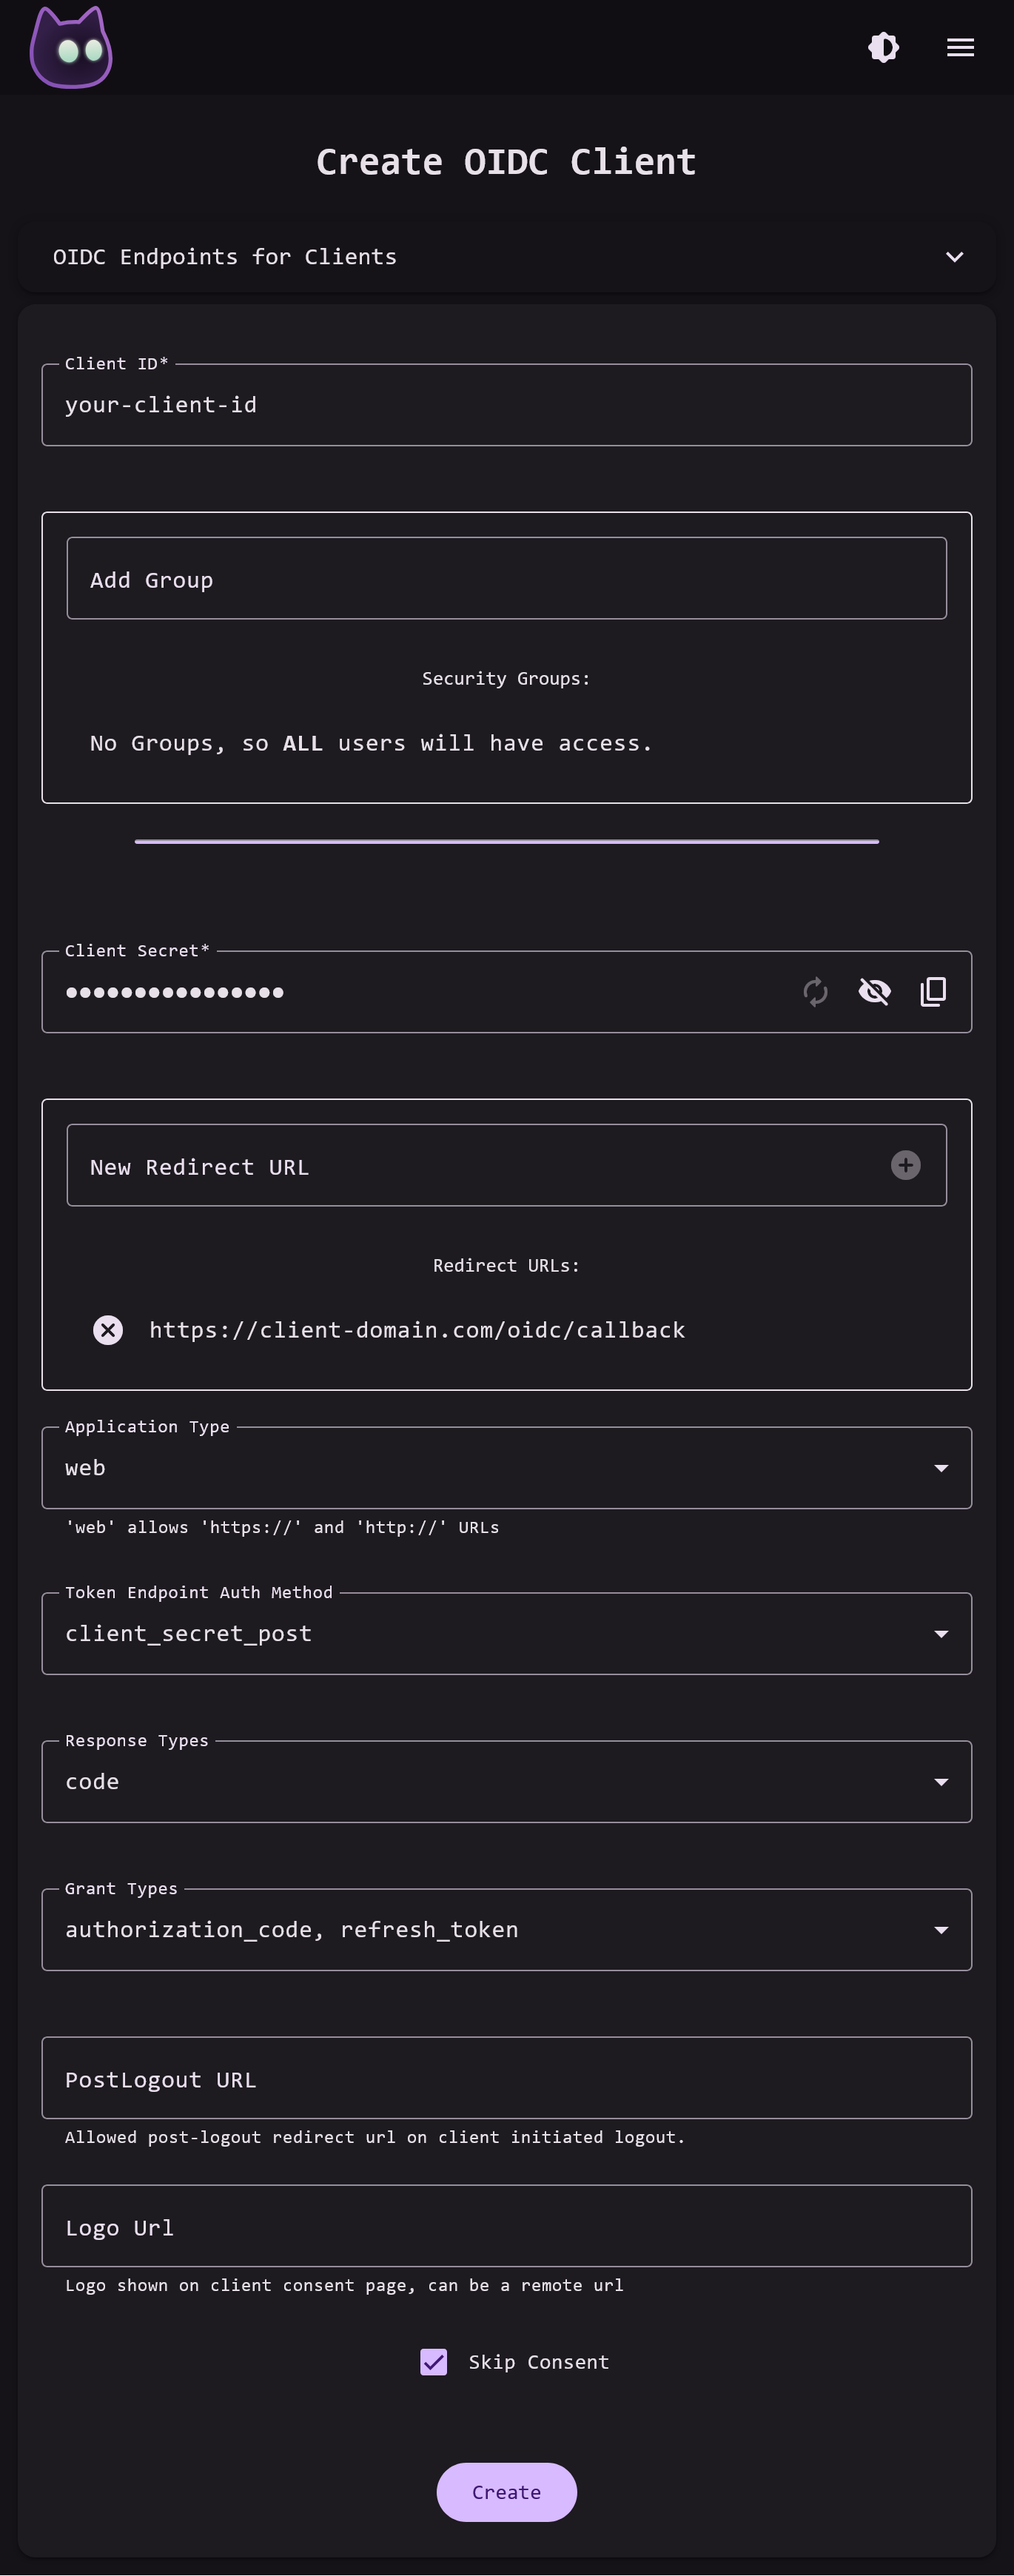
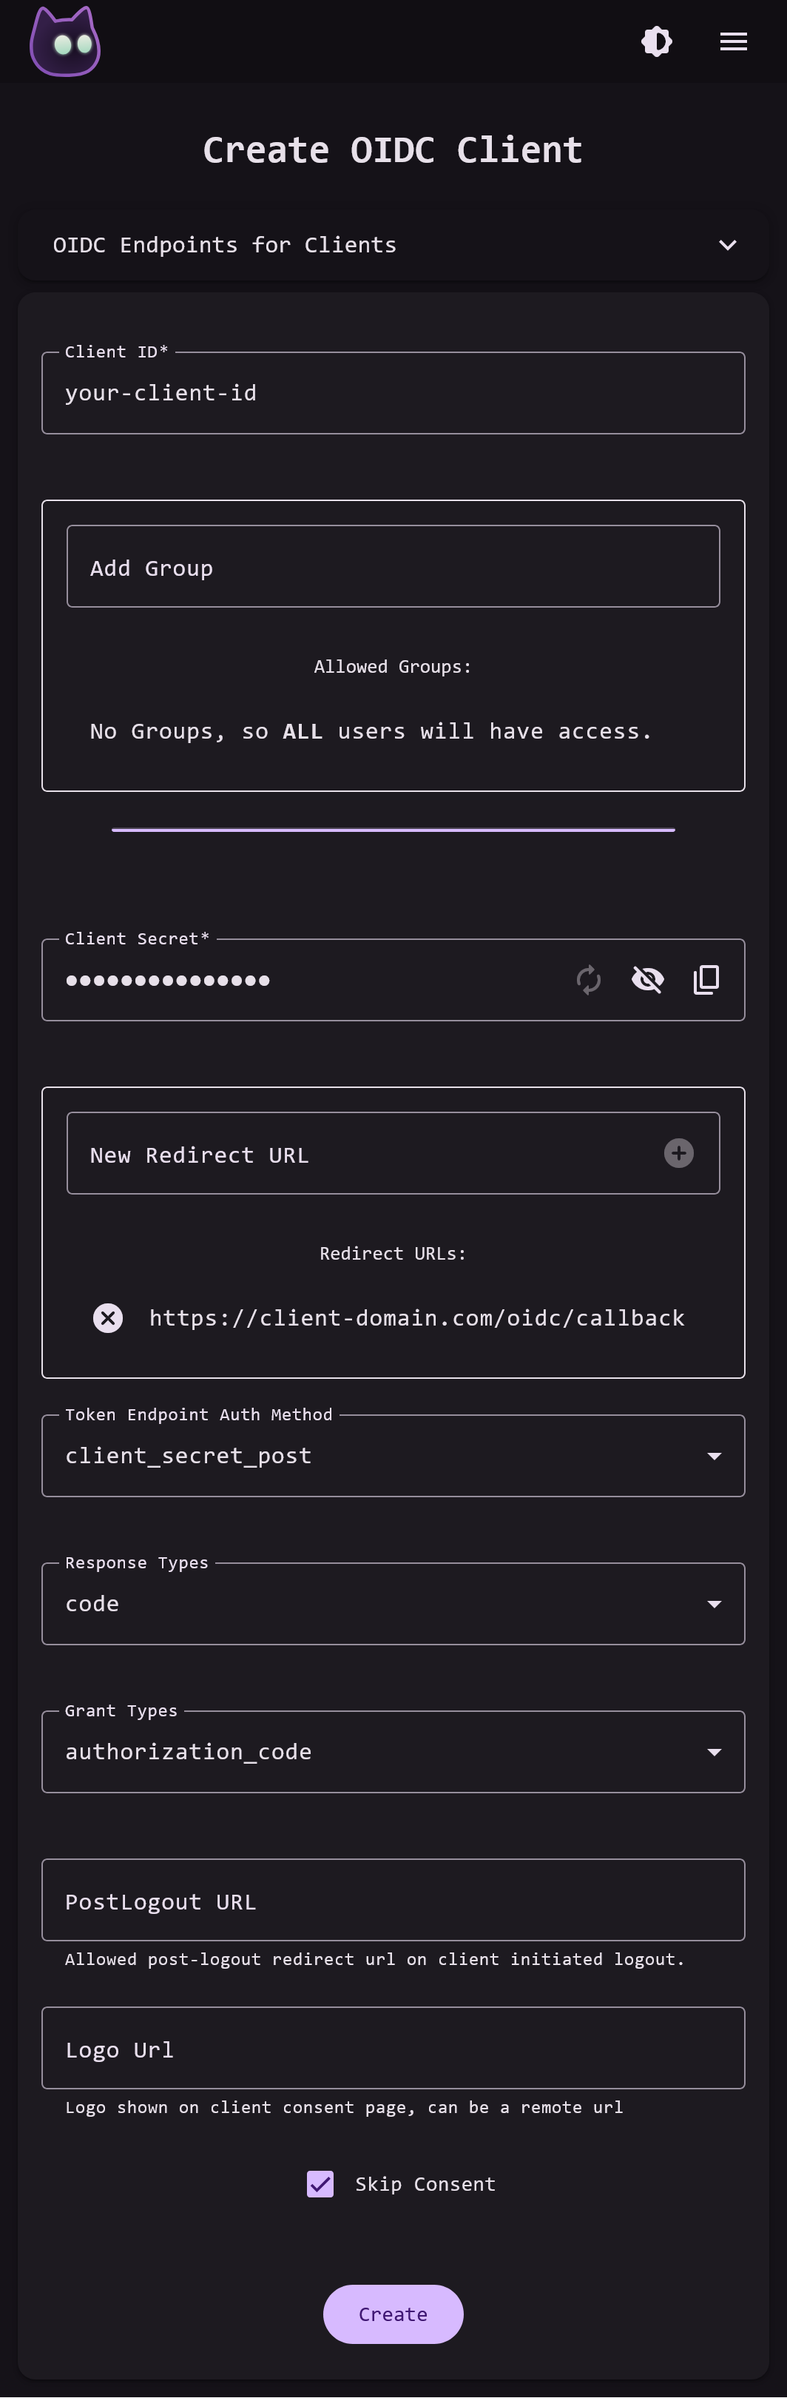
Determine the correct OIDC Application Type automatically. Prevent adding insecure and custom protocol URLs to the Redirect URLs list at the same time.

diff --git a/frontend/src/app/pages/admin/clients/upsert-client/upsert-client.component.ts b/frontend/src/app/pages/admin/clients/upsert-client/upsert-client.component.ts
@@ -43,39 +43,11 @@ export class UpsertClientComponent implements OnInit {
     'none',
   ]
 
-  public applicationTypes: ClientUpsert['application_type'][] = [
-    'web',
-    'native',
-  ]
-
   public uniqueResponseTypes = UNIQUE_RESPONSE_TYPES
 
   public grantTypes = GRANT_TYPES
 
   public client_id: string | null = null
-
-  public groups: string[] = []
-  public unselectedGroups: string[] = []
-  public selectableGroups: string[] = []
-  groupSelect = new FormControl<string>({
-    value: '',
-    disabled: false,
-  }, [])
-
-  redirectUrlControl = new FormControl<string>({
-    value: '',
-    disabled: false,
-  }, [isValidURLControl])
-
-  responseTypeControl = new FormControl<itemIn<typeof UNIQUE_RESPONSE_TYPES>[]>(['code'], [(c) => {
-    // eslint-disable-next-line @typescript-eslint/no-unsafe-member-access
-    if (c.value?.length === 1 && c.value[0] === 'token') {
-      return { invalid: 'This is an invalid Response Type selection.' }
-    }
-    return null
-  }])
-
-  postLogoutUrlControl = new FormControl<string | null>(null, [isValidURLControl])
 
   form = new FormGroup<TypedControls<ClientUpsert>>({
     client_id: new FormControl<string | null>(null, [Validators.required]),
@@ -90,7 +62,6 @@ export class UpsertClientComponent implements OnInit {
       return null
     }]),
     grant_types: new FormControl<itemIn<typeof GRANT_TYPES>[]>(['authorization_code', 'refresh_token']),
-    application_type: new FormControl<ClientUpsert['application_type']>('web'),
     post_logout_redirect_uris: new FormControl<ClientUpsert['post_logout_redirect_uris']>([], [(c) => {
       if ((c.value as string[]).some(v => typeof v === 'string' && v && !isValidURL(v))) {
         return {
@@ -103,6 +74,48 @@ export class UpsertClientComponent implements OnInit {
     logo_uri: new FormControl<string | null>(null, [isValidWebURLControl]),
     groups: new FormControl<ClientUpsert['groups']>([]),
   })
+
+  public groups: string[] = []
+  public unselectedGroups: string[] = []
+  public selectableGroups: string[] = []
+  groupSelect = new FormControl<string>({
+    value: '',
+    disabled: false,
+  }, [])
+
+  redirectUrlControl = new FormControl<string>({
+    value: '',
+    disabled: false,
+  }, [isValidURLControl, (c) => {
+    // eslint-disable-next-line @typescript-eslint/no-unsafe-assignment
+    const value = c.value
+    const existing = this.form.controls.redirect_uris.value
+    if (typeof value !== 'string' || !isValidURL(value) || !existing?.length) {
+      return null
+    }
+    const all = existing.concat([value])
+    let hasHttpProtocol = false
+    let hasCustomProtocol = false
+    for (const uri of all) {
+      const protocol = URL.parse(uri)?.protocol
+      hasHttpProtocol ||= protocol === 'http:'
+      hasCustomProtocol ||= (protocol !== 'http:' && protocol !== 'https:')
+    }
+    if (hasCustomProtocol && hasHttpProtocol) {
+      return { invalid: 'You cannot mix insecure and custom protocol URLs in the Redirect URLs list.' }
+    }
+    return null
+  }])
+
+  responseTypeControl = new FormControl<itemIn<typeof UNIQUE_RESPONSE_TYPES>[]>(['code'], [(c) => {
+    // eslint-disable-next-line @typescript-eslint/no-unsafe-member-access
+    if (c.value?.length === 1 && c.value[0] === 'token') {
+      return { invalid: 'This is an invalid Response Type selection.' }
+    }
+    return null
+  }])
+
+  postLogoutUrlControl = new FormControl<string | null>(null, [isValidURLControl])
 
   pwdShow = false
 
@@ -131,7 +144,6 @@ export class UpsertClientComponent implements OnInit {
             token_endpoint_auth_method: client.token_endpoint_auth_method ?? 'client_secret_post',
             response_types: client.response_types ?? ['code'],
             grant_types: client.grant_types ?? ['authorization_code', 'refresh_token'],
-            application_type: client.application_type ?? 'web',
             post_logout_redirect_uris: client.post_logout_redirect_uris ?? [],
             skip_consent: client['skip_consent'] ?? true,
             logo_uri: client.logo_uri,
@@ -304,5 +316,7 @@ export class UpsertClientComponent implements OnInit {
   removeRedirectUrl(value: string) {
     this.form.controls.redirect_uris.setValue((this.form.controls.redirect_uris.value ?? []).filter(r => r !== value))
     this.form.controls.redirect_uris.markAsDirty()
+    this.form.updateValueAndValidity()
+    this.redirectUrlControl.updateValueAndValidity()
   }
 }

diff --git a/server/routes/admin.ts b/server/routes/admin.ts
@@ -37,6 +37,7 @@ import appConfig from '../util/config'
 import type { EmailsResponse } from '@shared/api-response/admin/EmailsResponse'
 import DOMPurify from 'isomorphic-dompurify'
 import type { OIDCPayload } from '@shared/db/OIDCPayload'
+import type { ClientResponse } from '@shared/api-response/ClientResponse'
 
 const clientMetadataValidator: TypedSchema<ClientUpsert> = {
   client_id: {
@@ -80,10 +81,6 @@ const clientMetadataValidator: TypedSchema<ClientUpsert> = {
     },
   },
   token_endpoint_auth_method: {
-    optional: true,
-    ...stringValidation,
-  },
-  application_type: {
     optional: true,
     ...stringValidation,
   },
@@ -167,7 +164,8 @@ adminRouter.get('/client/:client_id',
 adminRouter.post('/client',
   ...validate<ClientUpsert>(clientMetadataValidator),
   async (req, res) => {
-    const clientMetadata = validatorData<ClientUpsert>(req)
+    const clientUpsert = validatorData<ClientUpsert>(req)
+    const clientMetadata: ClientResponse = { ...clientUpsert }
     try {
       // check that existing client does not exist with client_id
       const existingClient = await getClient(clientMetadata.client_id)
@@ -175,6 +173,20 @@ adminRouter.post('/client',
         res.sendStatus(409)
         return
       }
+
+      // determine proper Application Type
+      let hasHttpProtocol = false
+      let hasCustomProtocol = false
+      for (const uri of clientUpsert.redirect_uris) {
+        const protocol = URL.parse(uri)?.protocol
+        hasHttpProtocol ||= protocol === 'http:'
+        hasCustomProtocol ||= (protocol !== 'http:' && protocol !== 'https:')
+      }
+      if (hasCustomProtocol && hasHttpProtocol) {
+        res.sendStatus(400)
+        return
+      }
+      clientMetadata.application_type = hasCustomProtocol ? 'native' : 'web'
 
       await upsertClient(provider, clientMetadata, req.user, provider.createContext(req, res))
       res.send()
@@ -187,7 +199,8 @@ adminRouter.post('/client',
 adminRouter.patch('/client',
   ...validate<ClientUpsert>(clientMetadataValidator),
   async (req, res) => {
-    const clientMetadata = validatorData<ClientUpsert>(req)
+    const clientUpsert = validatorData<ClientUpsert>(req)
+    const clientMetadata: ClientResponse = { ...clientUpsert }
     try {
       // check that existing client exists with client_id
       const existingClient = await getClient(clientMetadata.client_id)
@@ -195,6 +208,20 @@ adminRouter.patch('/client',
         res.sendStatus(404)
         return
       }
+
+      // determine proper Application Type
+      let hasHttpProtocol = false
+      let hasCustomProtocol = false
+      for (const uri of clientUpsert.redirect_uris) {
+        const protocol = URL.parse(uri)?.protocol
+        hasHttpProtocol ||= protocol === 'http:'
+        hasCustomProtocol ||= (protocol !== 'http:' && protocol !== 'https:')
+      }
+      if (hasCustomProtocol && hasHttpProtocol) {
+        res.sendStatus(400)
+        return
+      }
+      clientMetadata.application_type = hasCustomProtocol ? 'native' : 'web'
 
       await upsertClient(provider, clientMetadata, req.user, provider.createContext(req, res))
       res.send()

diff --git a/frontend/src/app/pages/admin/clients/upsert-client/upsert-client.component.html b/frontend/src/app/pages/admin/clients/upsert-client/upsert-client.component.html
@@ -121,23 +121,6 @@
         </mat-error>
       }
 
-      <mat-form-field style="margin-bottom: 12px">
-        <mat-label>Application Type</mat-label>
-        <mat-select formControlName="application_type">
-          @for (type of applicationTypes; track type) {
-            <mat-option [value]="type">{{ type }}</mat-option>
-          }
-        </mat-select>
-        @if (form.controls.application_type.value === "web") {
-          <mat-hint>'web' allows 'https://' and 'http://' URLs</mat-hint>
-        } @else if (form.controls.application_type.value === "native") {
-          <mat-hint>'native' allows any URL, except insecure 'http://'</mat-hint>
-        }
-        @if (form.controls.application_type.errors) {
-          <mat-error>{{ form.controls.application_type.errors | validationError }}</mat-error>
-        }
-      </mat-form-field>
-
       <mat-form-field>
         <mat-label>Token Endpoint Auth Method</mat-label>
         <mat-select formControlName="token_endpoint_auth_method">

diff --git a/shared/api-request/admin/ClientUpsert.ts b/shared/api-request/admin/ClientUpsert.ts
@@ -19,7 +19,6 @@ export type ClientUpsert = Required<Pick<ClientMetadata,
   | 'grant_types'
   | 'logo_uri'
   | 'skip_consent'
-  | 'application_type'
   | 'post_logout_redirect_uris'>>
   & {
     groups: OIDCGroup['groupId'][]
